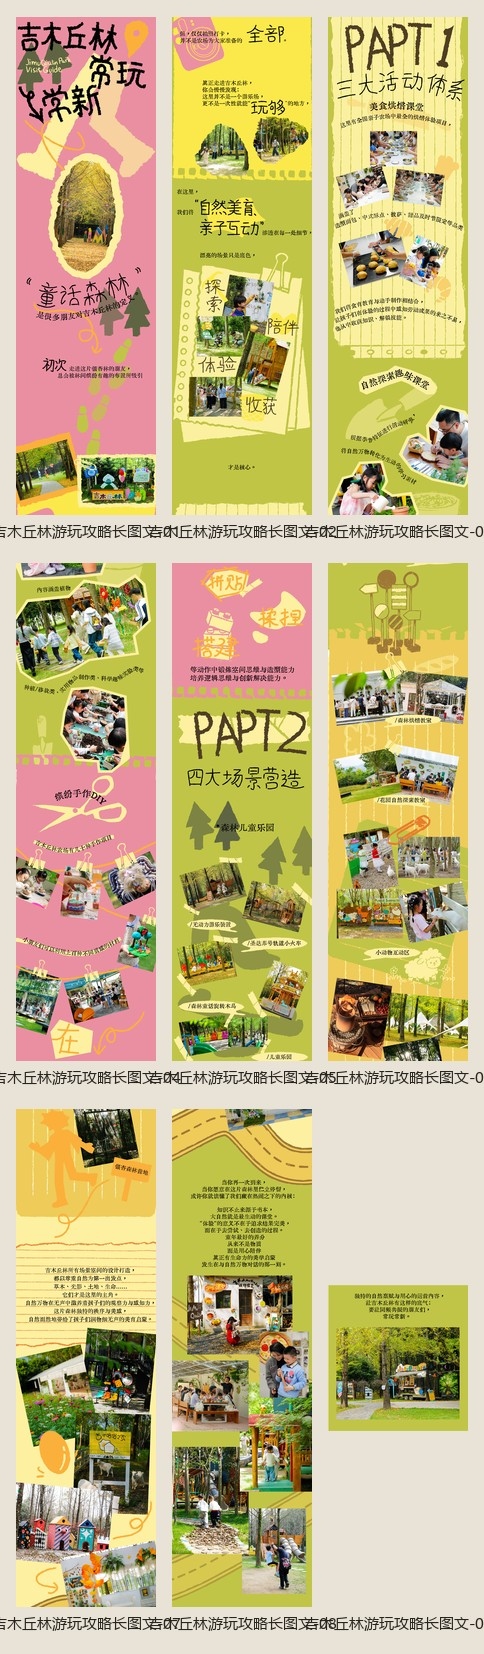
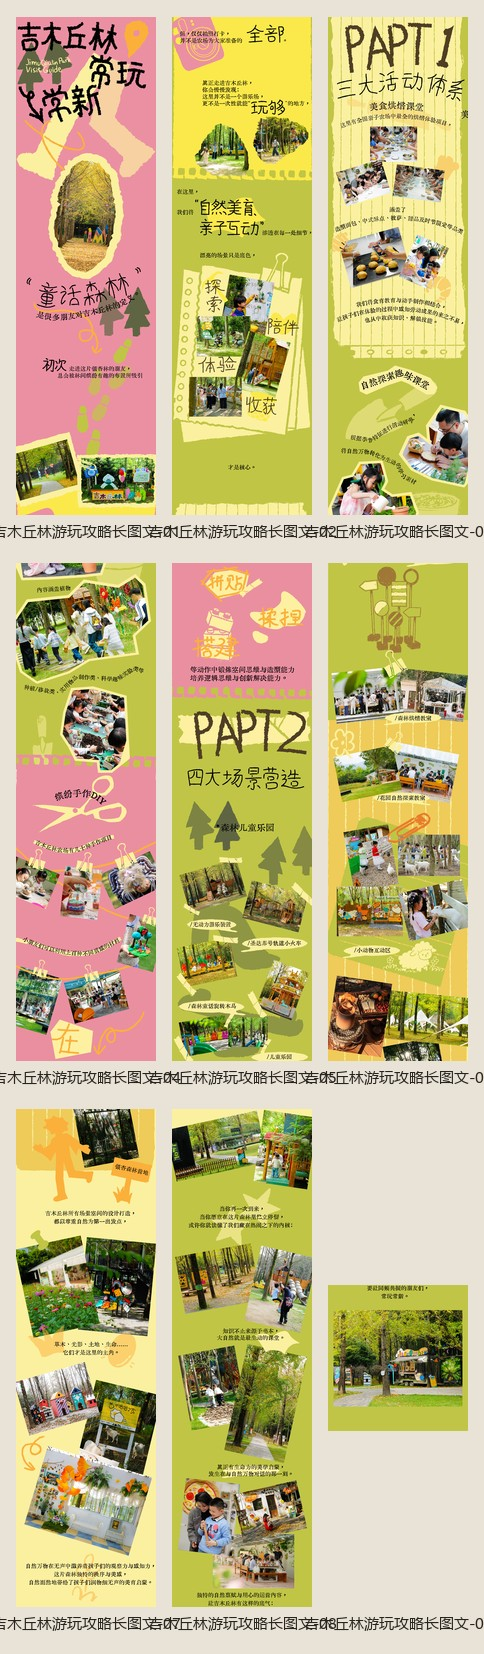
Refresh play guide from 2026-11-13 update

diff --git a/index.html b/index.html
@@ -34,13 +34,13 @@
   <header>
     <div class="brand"><strong>吉木丘林 · 游玩攻略</strong><span>9 张连续长图 · 建议上下滑动阅读</span></div>
     <div class="actions">
-      <a href="./assets/guide-long-web.jpg?v=20261112-212350" target="_blank" rel="noopener">查看长图</a>
-      <a href="./assets/guide-long-web.jpg?v=20261112-212350" download>下载长图</a>
+      <a href="./assets/guide-long-web.jpg?v=20261113-114607" target="_blank" rel="noopener">查看长图</a>
+      <a href="./assets/guide-long-web.jpg?v=20261113-114607" download>下载长图</a>
     </div>
   </header>
   <main>
-    <div class="stage" id="stage"><img id="longImage" src="./assets/guide-long-web.jpg?v=20261112-212350" alt="吉木丘林游玩攻略连续长图"></div>
-    <p class="tip">共 9 页，已按文件名顺序无缝拼接<br>1,080 × 31,845 px 网页版长图<br>更新于 2026-11-12 21:23</p>
+    <div class="stage" id="stage"><img id="longImage" src="./assets/guide-long-web.jpg?v=20261113-114607" alt="吉木丘林游玩攻略连续长图"></div>
+    <p class="tip">共 9 页，已按文件名顺序无缝拼接<br>1,080 × 31,845 px 网页版长图<br>更新于 2026-11-13 11:46</p>
   </main>
   <div class="zoom" aria-label="缩放控制">
     <button type="button" id="minus" aria-label="缩小">−</button>
